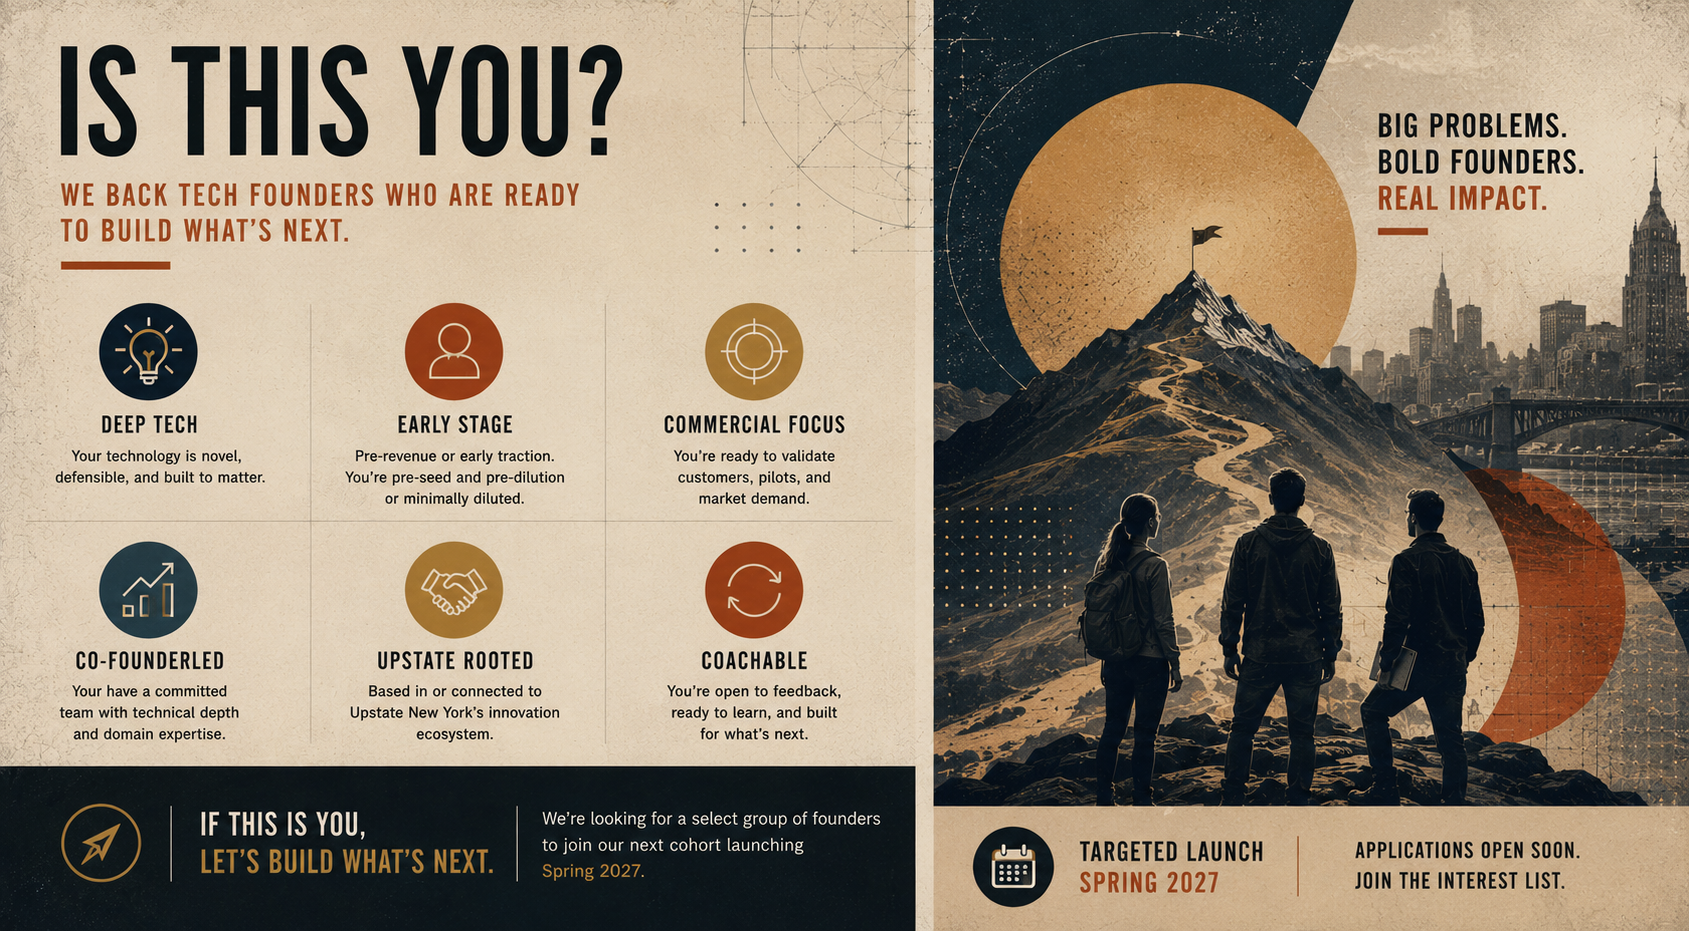
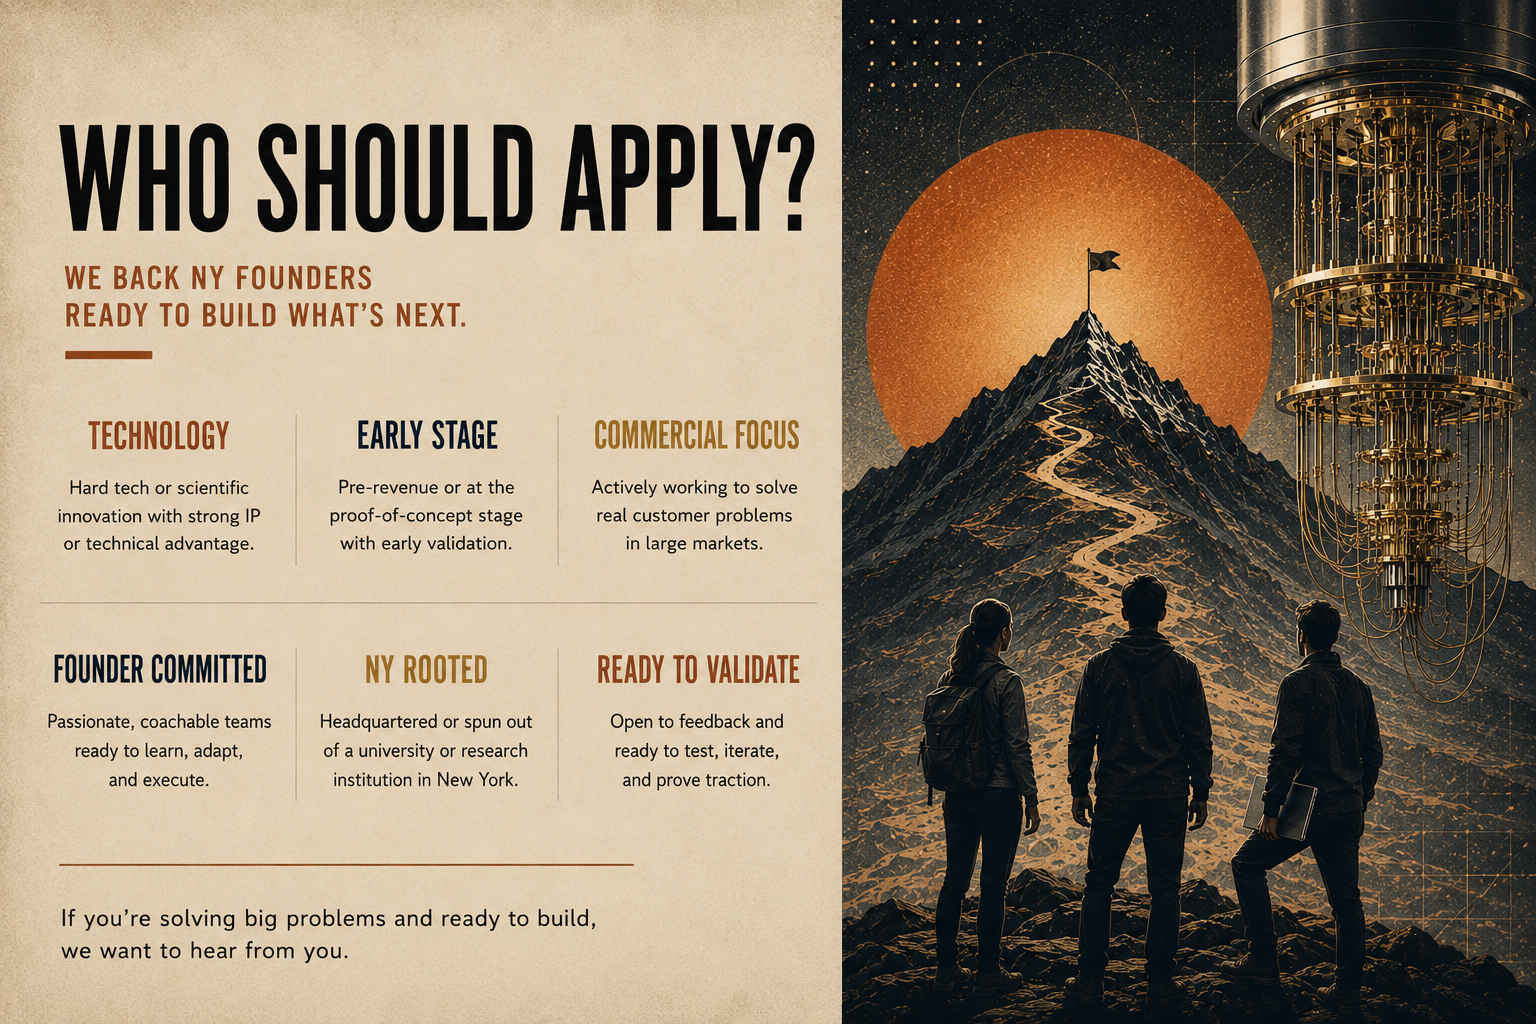
Update Get Funded page images and alt text
Refreshes all 6 founder-journey images with their updated
versions and rewrites alt text to match the new content --
dropping stale "Spring 2027" mentions everywhere except the
final CTA, and avoiding "Deep Tech" phrasing in favor of
"Technology" per the current content rules.

diff --git a/get-funded/index.html b/get-funded/index.html
@@ -320,27 +320,27 @@
 
   <!-- ── SECTION 1: FOUNDER JOIN / HERO ── -->
   <section class="hero-section">
-    <img src="/assets/founderjoin.png" alt="You built the technology. Now build the market. UPNY works with ambitious New York technology founders to validate markets, build traction, and create a stronger path to capital. 100-Day Commercialization Engine, targeted launch Spring 2027." class="hero-image" />
+    <img src="/assets/founderjoin.png" alt="You built the technology. Now build the market. UPNY works with ambitious New York technology founders to validate markets, build traction, and create a stronger path to capital. 100-Day Commercialization Engine." class="hero-image" />
   </section>
 
   <!-- ── SECTION 2: FOUNDER GAP ── -->
   <section class="founder-section bg-gap">
     <div class="founder-inner">
-      <img src="/assets/foundergap.png" alt="The technology works. The market is still unproven. Breakthrough technologies often reach proof in the lab, but not in the market. UPNY closes that gap between proven technology, unproven market, and uncertain outcome." class="founder-image" />
+      <img src="/assets/foundergap.png" alt="Technical proof is not market proof. A breakthrough can work before the market is proven." class="founder-image" />
     </div>
   </section>
 
   <!-- ── SECTION 3: 100-DAY COMMERCIALIZATION ENGINE ── -->
   <section class="founder-section founder-section--roomy bg-100days">
     <div class="founder-inner">
-      <img src="/assets/100days.png" alt="100 days to build market evidence: customer discovery, positioning and GTM, pilots and early adopters, and commercial evidence — with hands-on support, tools and resources, and investor-grade data. Targeted launch Spring 2027." class="founder-image" />
+      <img src="/assets/100days.png" alt="100 days to build market evidence. Work the market, test demand, build the evidence that changes what comes next: customer discovery, positioning and GTM, pilots and early adopters, and commercial evidence." class="founder-image" />
     </div>
   </section>
 
   <!-- ── SECTION 4: CAPITAL PATH ── -->
   <section class="founder-section bg-capital">
     <div class="founder-inner">
-      <img src="/assets/capitalpath.png" alt="Build evidence. Earn capital. Keep going. A clear path from validation to funding: 100 days to build market evidence, $75K Pre-Seed I to de-risk and accelerate, $100K+ Pre-Seed II to scale commercial momentum, and Seed and beyond with institutional capital." class="founder-image" />
+      <img src="/assets/capitalpath.png" alt="A clear path from validation to funding. We invest as you prove the market: 100 days of commercialization, $75K Pre-Seed I, $100K+ Pre-Seed II, and Seed and beyond with institutional capital." class="founder-image" />
       <p class="selectivity-note">Investment is selective and based on demonstrated progress, commercial evidence, and company potential.</p>
     </div>
   </section>
@@ -348,14 +348,14 @@
   <!-- ── SECTION 5: TEAM BEHIND YOU ── -->
   <section class="founder-section founder-section--generous bg-team">
     <div class="founder-inner">
-      <img src="/assets/teambehindyou.png" alt="You don't just get funded. You get a team behind you. UPNY surrounds founders with advisors, angel access, strategic partners, and a roadmap to Seed." class="founder-image" />
+      <img src="/assets/teambehindyou.png" alt="You don't just get funded. You get a team behind you. UPNY surrounds founders with the people and relationships that accelerate outcomes: operator expertise, deep networks, strategic guidance, and a path forward." class="founder-image" />
     </div>
   </section>
 
   <!-- ── SECTION 6: WHO SHOULD APPLY ── -->
   <section class="founder-section bg-apply">
     <div class="founder-inner">
-      <img src="/assets/whoshouldapply.png" alt="Is this you? UPNY backs technology founders who are ready to build what's next: deep tech, early stage, commercial focus, co-founded, upstate rooted, and coachable. Targeted launch Spring 2027, applications open soon." class="founder-image" />
+      <img src="/assets/whoshouldapply.png" alt="Who should apply? UPNY backs New York founders ready to build what's next: technology, early stage, commercial focus, founder committed, NY rooted, and ready to validate. If you're solving big problems and ready to build, we want to hear from you." class="founder-image" />
     </div>
   </section>
 
